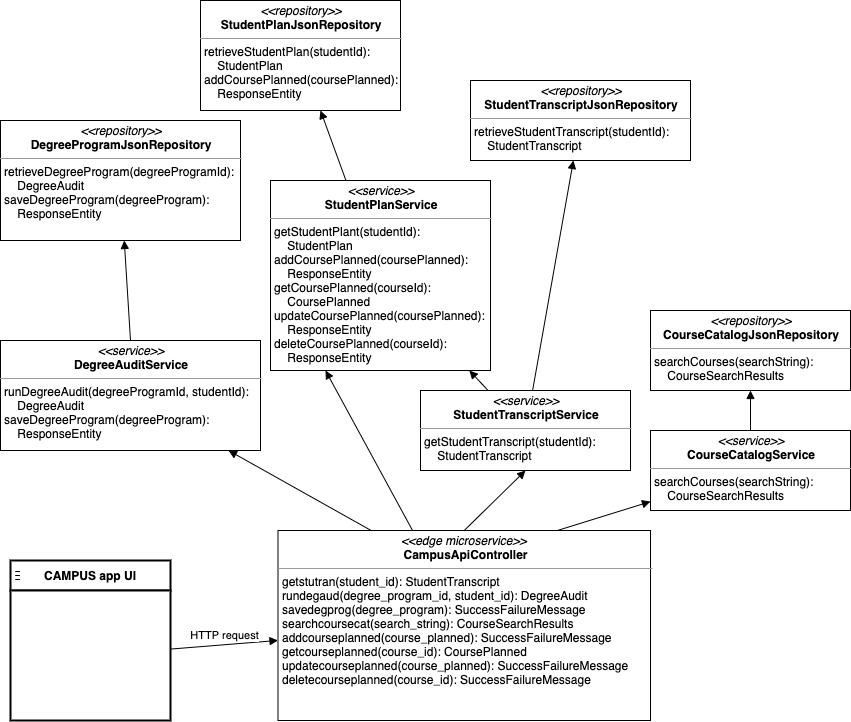
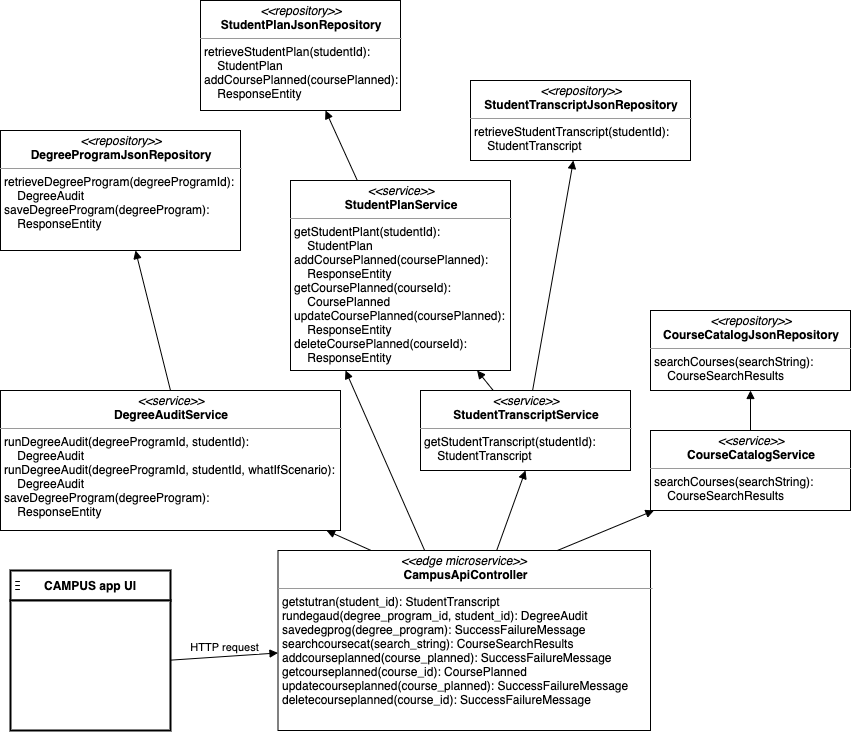
Update tech doc

diff --git a/README.md b/README.md
@@ -250,6 +250,24 @@ The advice in this case is: **Consider taking CIS-125 soon, as it is a prerequis
 
 Please see the section entitled [JSON properties used to express a degree program](#json-properties-used-to-express-a-degree-program) of Appendix A for details on how the course prerequisites are expressed in JSON.
 
+## Running "what-if" scenarios
+
+CDAPS leverages a student's academic program such as declared majors, as well as chosen minors, concentrations and specializations, when running a degree audit. Occasionally a student or advisor would like to see how making changes in their program would affect remaining credits required, completion dates or other factors. The "what-if scenario" functionality exists in CDAPS for these occasions, as shown in the following reference implementation screenshots.
+
+<img src="images/what_if_dialog_ab.png" width=80%>
+
+In this dialog box, users may choose a first, second and third major, minors, concentrations and specializations. They may also choose flags that a degree audit uses when evaluating requirements and associated rules. When clicking the **Run What-if** button, CDAPS uses these choices rather than ones found in the student's academic program. These choices are supplied to the CDAPS microservices as arguments appended to the URL. For example, the choices in the previous dialog box would result in the following to be appended to the `rundegaud` URL discussed in [Microservices Overview](#microservices-overview).
+
+`&majors=Theatre BS,DesignForSocialImpact BA`
+
+`&minors=Mathematics`
+
+`&concentrations=TheatreTechnicalConcentration`
+
+`&flags=exemptSixHoursForeignLanguage`
+
+These are then marshaled into a `WhatIfScenario` instance which is supplied as an argument to the overloaded `runDegreeAudit` method of `DegreeAuditService` shown in the Microservices Overview.
+
 ## Degree Planning subsystem
 
 CDAPS includes a Degree Planning subsystem that provides academic planning tools for students and their advisors. One such tool is located in the **Degree Plan** tab of the reference UI, and contains academic terms relevant to the student's degree program. Within these academic term containers are entries for courses the student has taken, is taking, or is planning to take. When a degree audit is run, courses in the student's academic record appear in the corresponding academic term container (whose academic term year and season match). 
@@ -285,13 +303,13 @@ The business logic of CDAPS is implemented in *microservices* comprised of the c
 
 
 
-<img src="images/campus_services_arch.png" width=90%>
+<img src="images/campus_services_arch.png" width=80%>
 
 
 
 A given user interface, such as the reference UI shown in this document, accesses these CDAPS microservices via HTTP GET and POST requests. For example, the majority of CDAPS functionality is implemented in the `runDegreeAudit` microservice, accessible by calling the `rundegaud` endpoint as shown in the following code example:
 
-`http://127.0.0.1:8080/rundegaud?degree_program_id=FOO_COMP_SCI_BS&student_id=BAR007`
+`http://127.0.0.1:8080/rundegaud?degree_program_id=COL_ARTS_SCI&student_id=ID007`
 
 As a result of this call, the specified degree program and student's academic records are retrieved, and a degree audit is performed. A JSON document is returned that expresses the student's degree audit as specified in the [DegreeAudit JSON schema](#degreeaudit-json-schema) section in Appendix A.
 
@@ -363,6 +381,7 @@ The following two tables describe the **DegreeAudit** JSON properties. The first
 | `degreePlan`                   | object           | Contains a `termPlans` objects.                              | Degree plan                            | **Required**. |
 | `termPlans`                    | list of objects  | Contains list of objects, each of which contains properties `termSeason`, `termYear` and `planCourses`, that express the student's degree plan. This list of object is ordered chronologically by academic term, with no terms skipped even when the `planCourses` for that term is empty. | Planned academic terms                 | **Required**. |
 | `planCourses`                  | list of objects  | Contains list of courses pertaining to an academic term on the student's degree plan, each of which contains properties `courseId`, `courseName`, `numCredits`, `numClasses`, and `grade`. | Plan courses                           | **Required**. |
+| `whatIfScenarioOptions`        | object           | What-if scenario options. Object  that contains properties `majors`, `minors`, `concentrations`,  `specializations` and `flags`. | What-if scenario options               | **Required**. |
 
 #### DegreeAudit formal JSON schema
 
@@ -791,6 +810,48 @@ The following contains the formal JSON schema for the DegreeAudit JSON document.
                 }
               }
             }
+          }
+        }
+      }
+    },
+    "whatIfScenarioOptions": {
+      "type": "object",
+      "description": "What-if scenario options to explore.",
+      "required": [],
+      "properties": {
+        "majors": {
+          "type": "array",
+          "items": {
+            "type": "string",
+            "description": "A list of majors to model in a what-if scenario."
+          }
+        },
+        "minors": {
+          "type": "array",
+          "items": {
+            "type": "string",
+            "description": "A list of minors to model in a what-if scenario."
+          }
+        },
+        "concentrations": {
+          "type": "array",
+          "items": {
+            "type": "string",
+            "description": "A list of concentrations to model in a what-if scenario."
+          }
+        },
+        "specializations": {
+          "type": "array",
+          "items": {
+            "type": "string",
+            "description": "A list of specializations to model in a what-if scenario."
+          }
+        },
+        "flags": {
+          "type": "array",
+          "items": {
+            "type": "string",
+            "description": "A list of flags relevant to the degree audit to model in a what-if scenario."
           }
         }
       }
